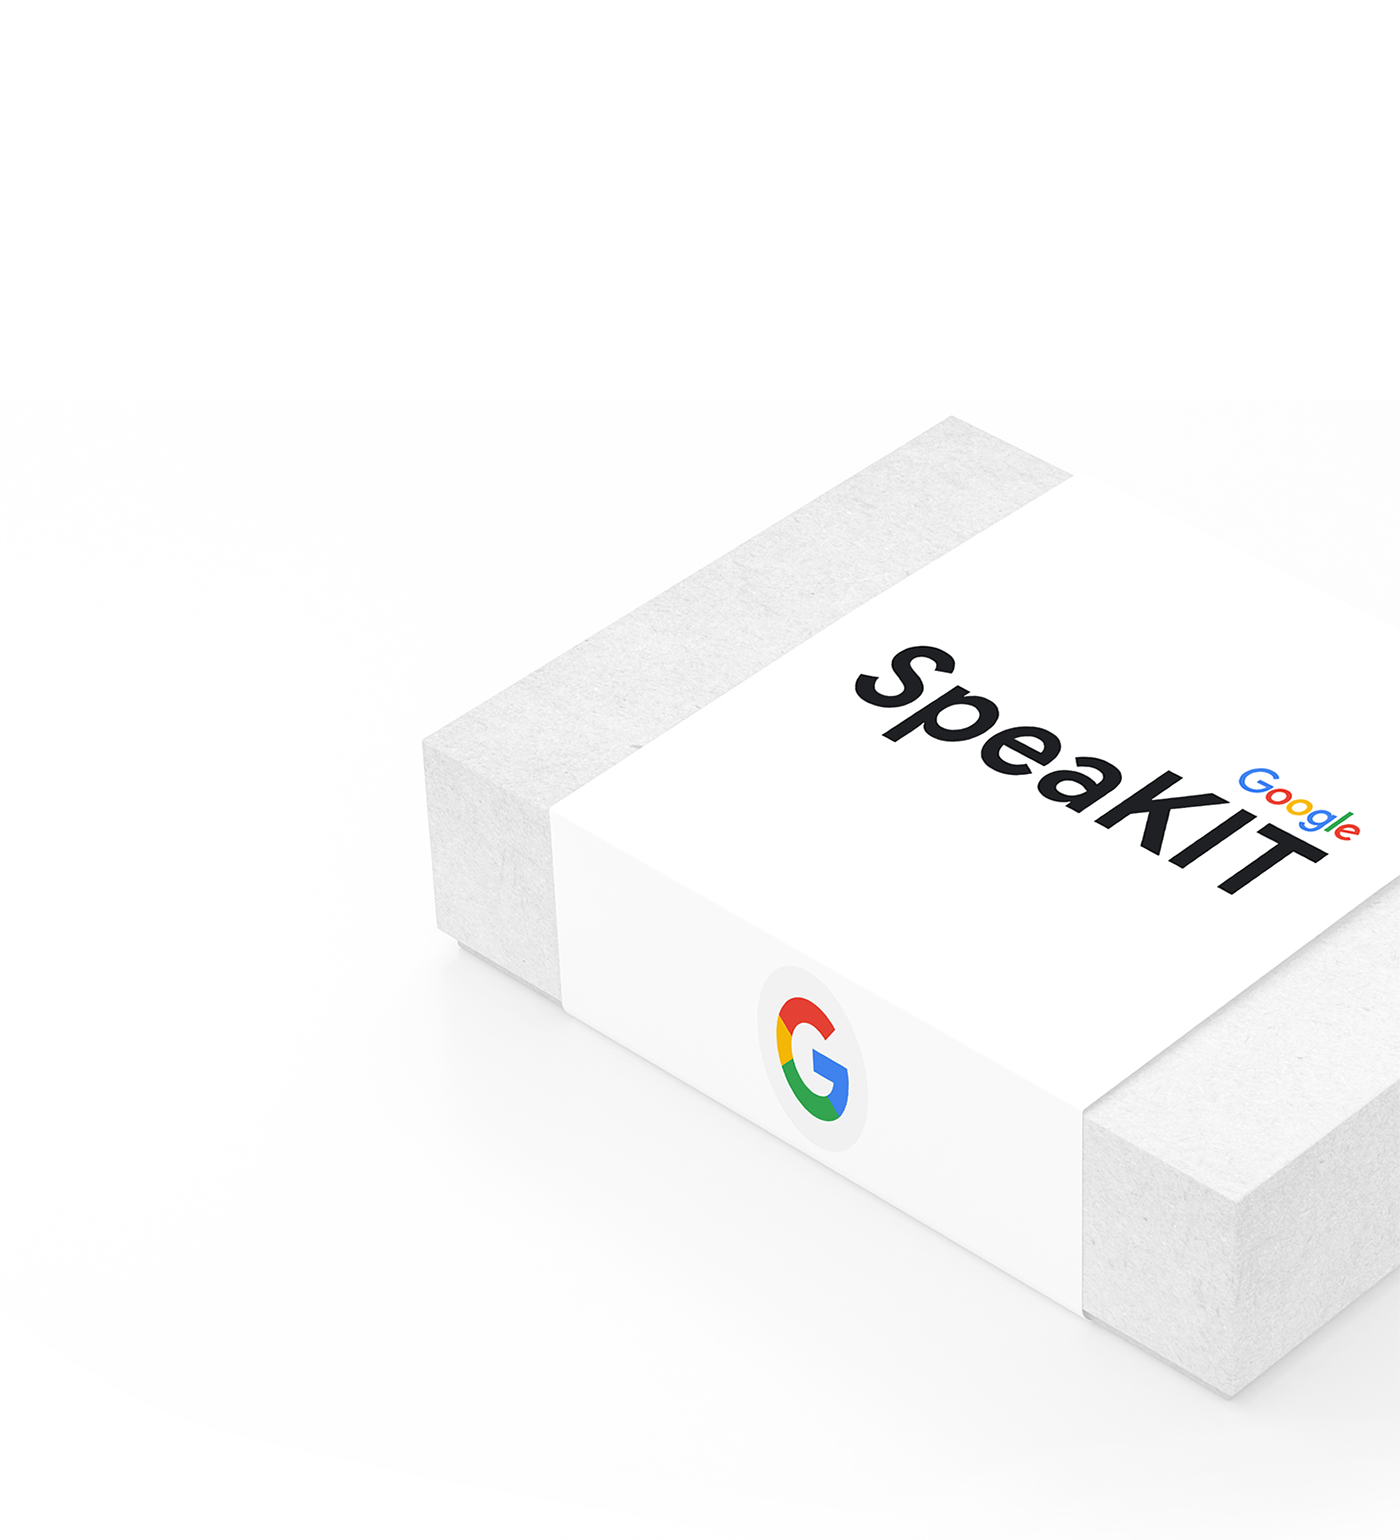
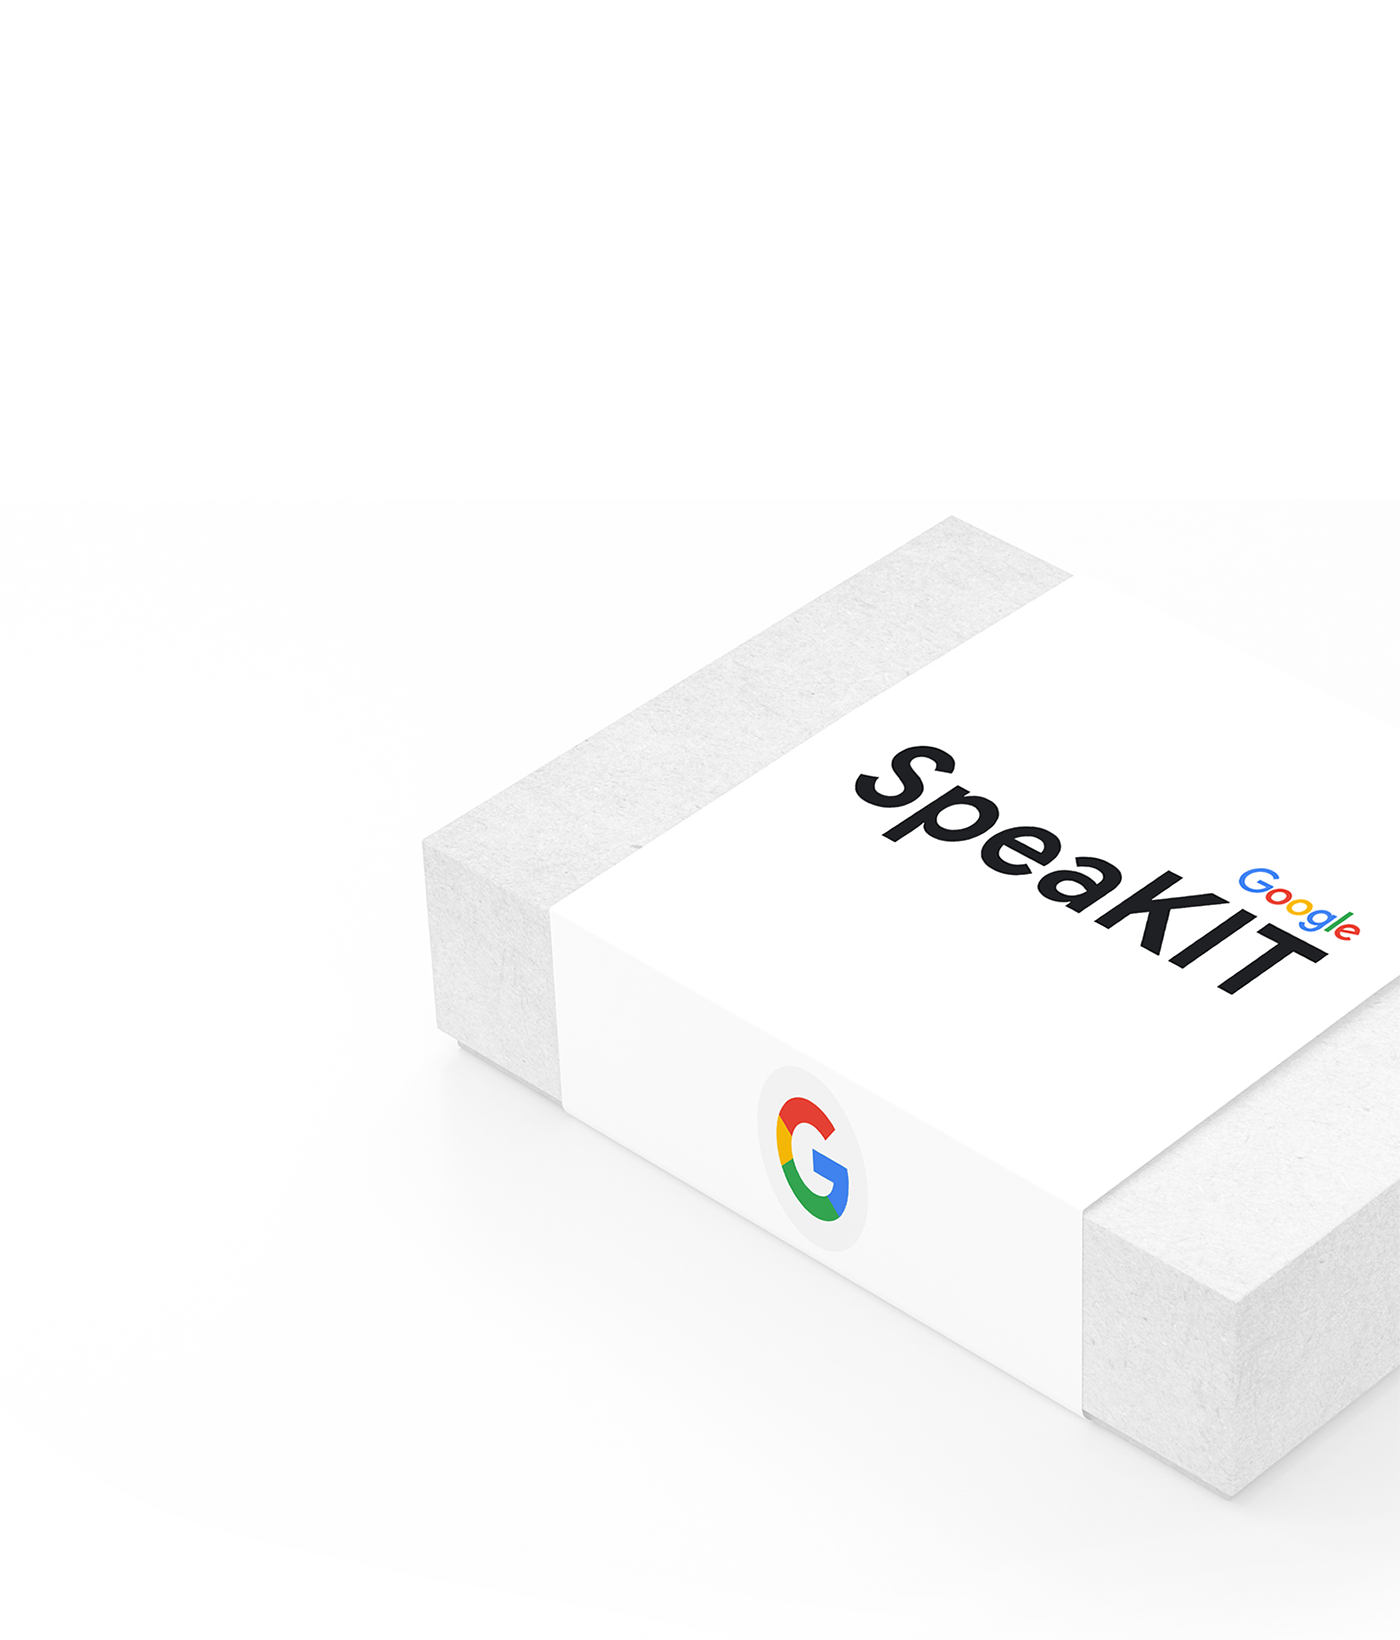
s

diff --git a/css/speakit.css b/css/speakit.css
@@ -100,7 +100,7 @@ body {
     padding: 6.25rem 2rem;
   }
   .underimg-mod2{
-    background-image: url('https://hawk-garethf.github.io/img/hew_box_mockup_mod2_padtop_1400x1640.png');
+    background-image: url('https://hawk-garethf.github.io/img/hew_box_mockup_mod2_padtop_1400x1540.png');
   }
 }
 
